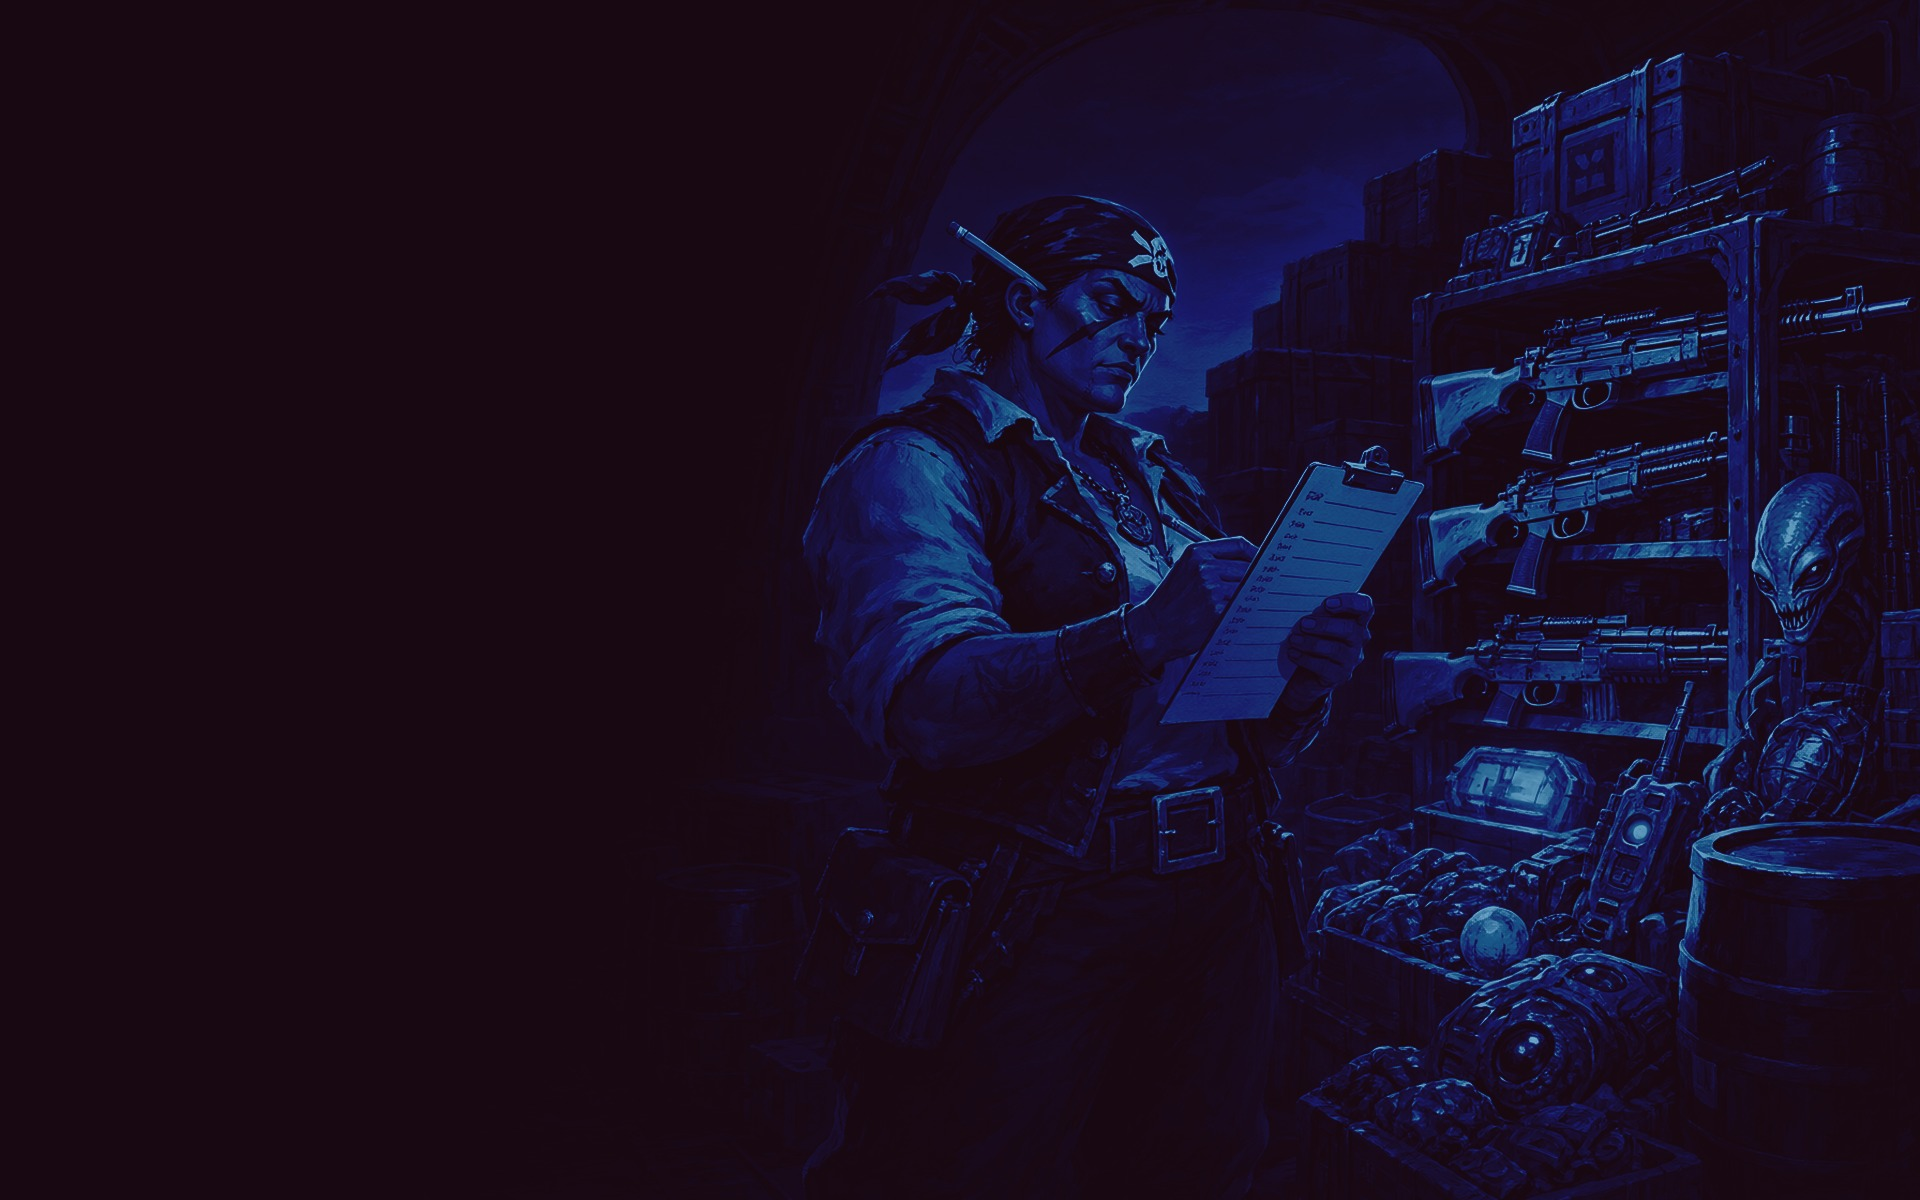
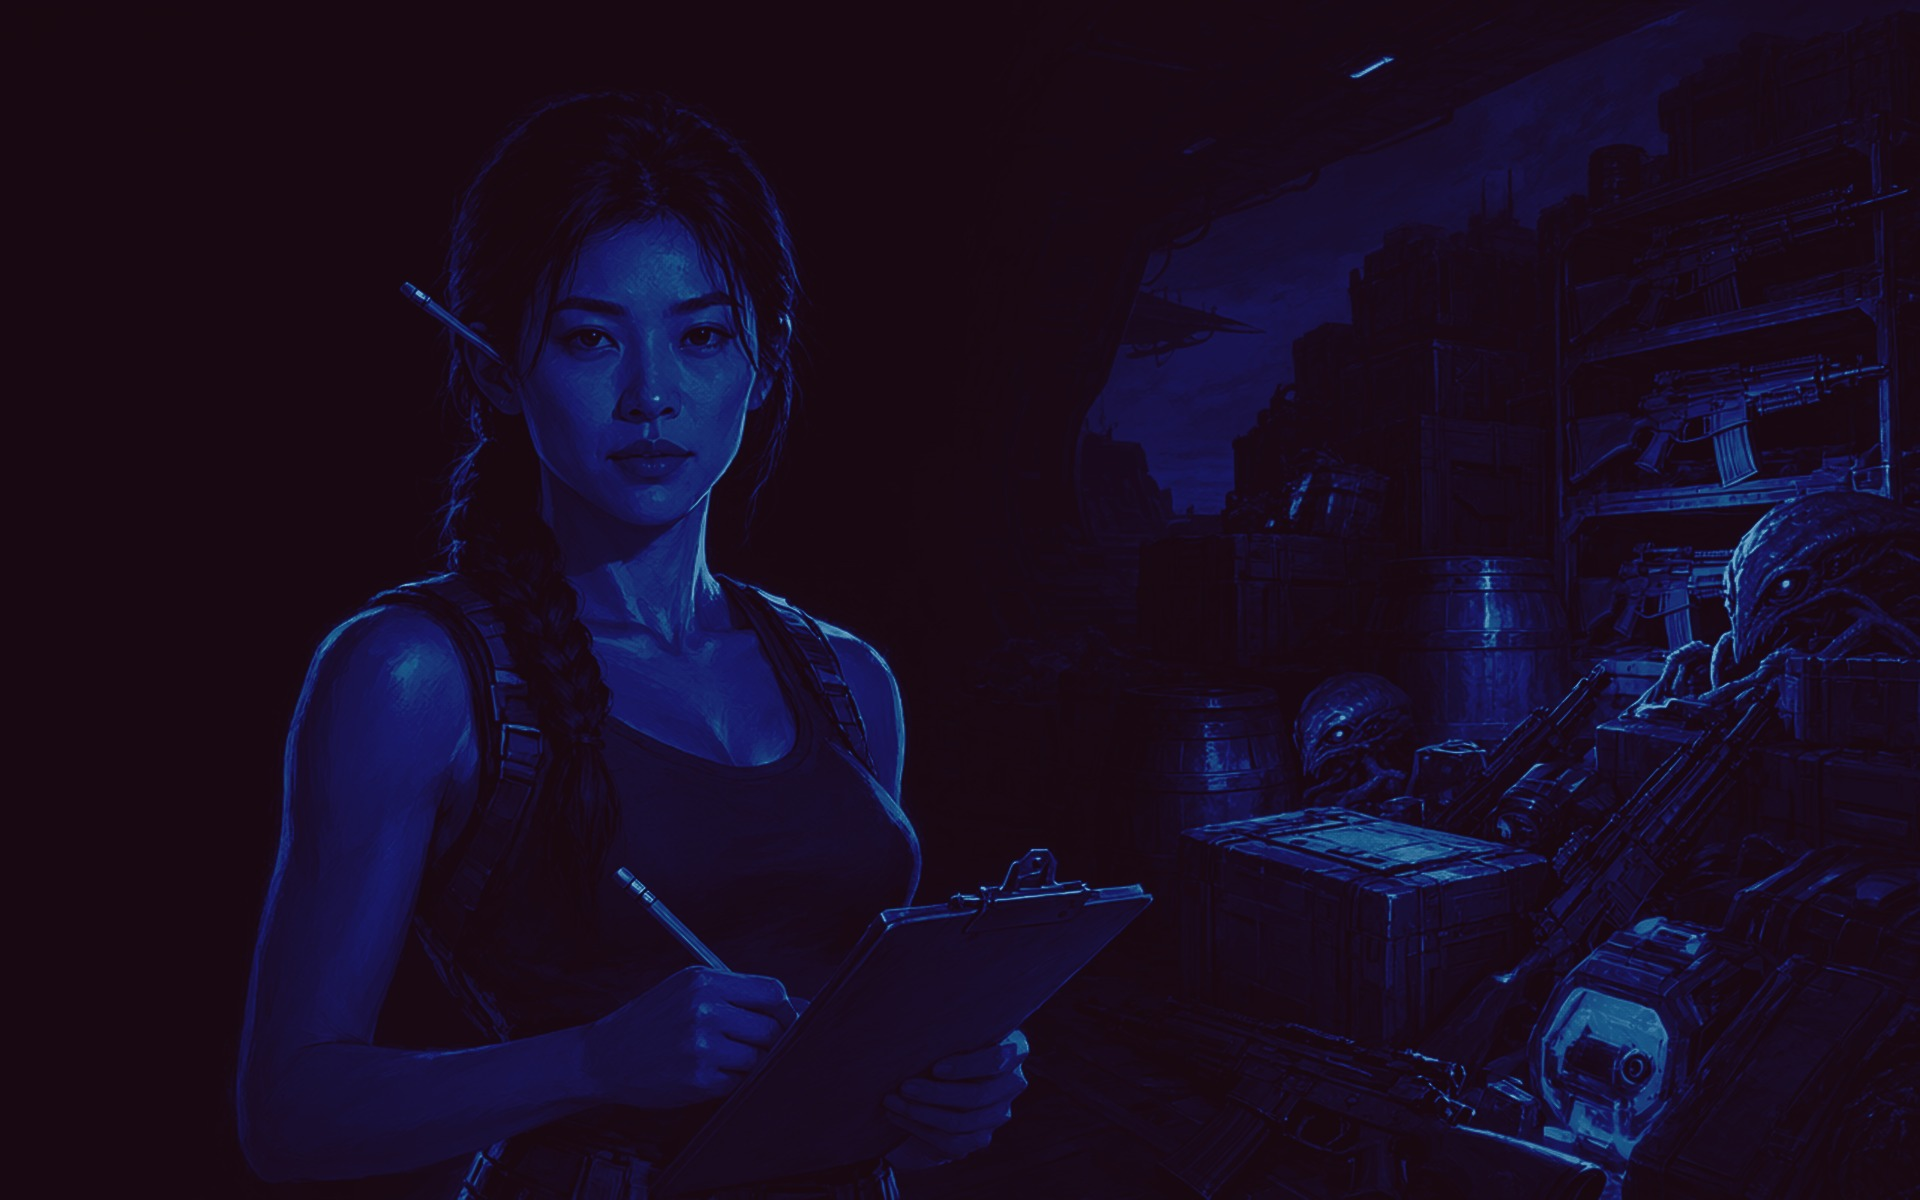
launcher 0.3.15: героини M1-M6 на главной (шесть кадров, случайный при запуске) и в пяти шагах мастера, шапка сайта с героинями и её копия 2x (RealESRGAN x4); выбор Vitali 22.10, старая hero.jpg лаунчера убрана
Вместе с ней выходят коммиты 231efb638 (без вкладки «Графика», статистика, файл плашки обновления) и 821076bfb (сайт). Сайт: Xp.Portal.Tests 170 из 170; лаунчер собран.

diff --git a/portal/src/Xp.Launcher/MainWindow.cs b/portal/src/Xp.Launcher/MainWindow.cs
@@ -620,14 +620,15 @@ public sealed class MainWindow : Window
         if (move.X < -text) move.X = lane;
     }
 
-    /// <summary>The card of the home page: one of the heroines' pictures (Assets/hero_&lt;n&gt;.jpg), another at each start; hero.jpg without them.</summary>
+    /// <summary>The card of the home page: one of the heroines' pictures (Assets/hero_&lt;n&gt;.jpg), another at each start.</summary>
     static Avalonia.Media.Imaging.Bitmap? HeroArt()
     {
         try
         {
             var all = Enumerable.Range(1, 16).Select(n => new Uri($"avares://XPiratezLauncher/Assets/hero_{n}.jpg"))
                 .Where(u => Avalonia.Platform.AssetLoader.Exists(u)).ToList();
-            var pick = all.Count > 0 ? all[Random.Shared.Next(all.Count)] : new Uri("avares://XPiratezLauncher/Assets/hero.jpg");
+            if (all.Count == 0) return null;
+            var pick = all[Random.Shared.Next(all.Count)];
             using var s = Avalonia.Platform.AssetLoader.Open(pick);
             return new Avalonia.Media.Imaging.Bitmap(s);
         }

diff --git a/tools/site_art_2x.py b/tools/site_art_2x.py
@@ -23,7 +23,8 @@ WWW = os.path.join(ROOT, "portal", "src", "Xp.Portal", "wwwroot", "img")
 
 # цель -> (папка вариантов, ширина и высота обычной картинки, бюджет крупной в КБ)
 TARGETS = {
-    os.path.join(WWW, "hero.jpg"): ("site_hero", 1280, 800, 700),
+    # с 22.10 героини: исходник 1280x800, рядом его копия x4 (upscale_ui.py, RealESRGAN_x4plus)
+    os.path.join(WWW, "hero.jpg"): ("cast_site_hero_x4", 1280, 800, 700),
     os.path.join(WWW, "mods", "piratez.jpg"): ("mod_piratez", 960, 540, 600),
     os.path.join(WWW, "mods", "hd.jpg"): ("mod_hd", 960, 540, 600),
 }
